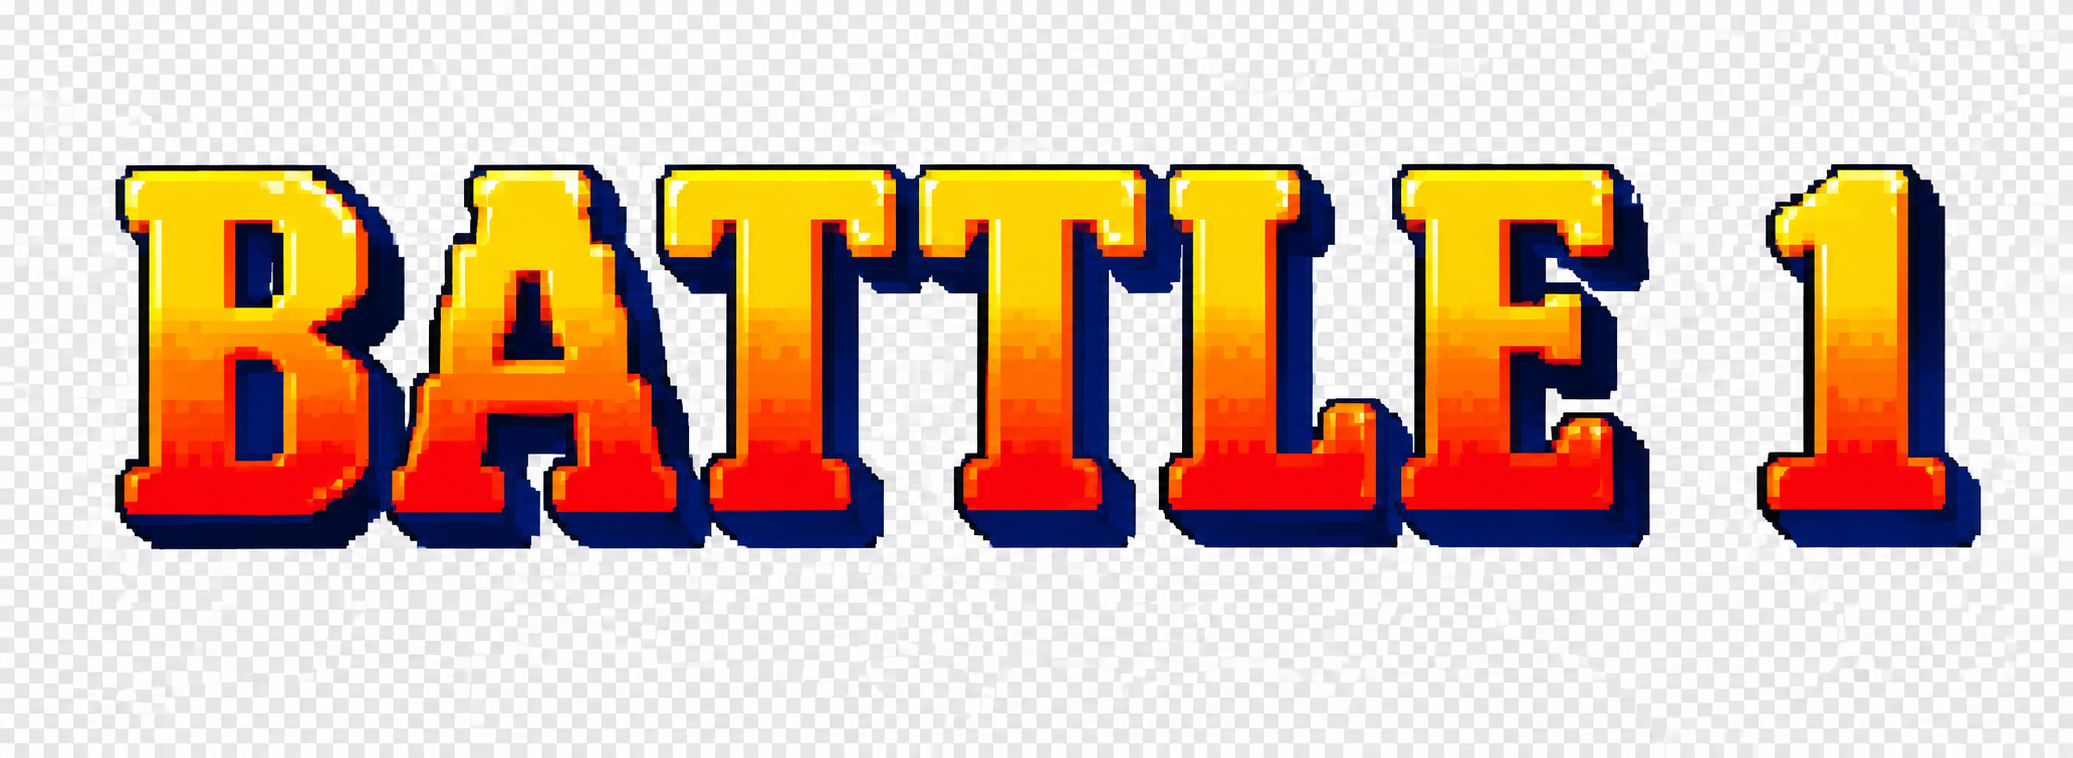
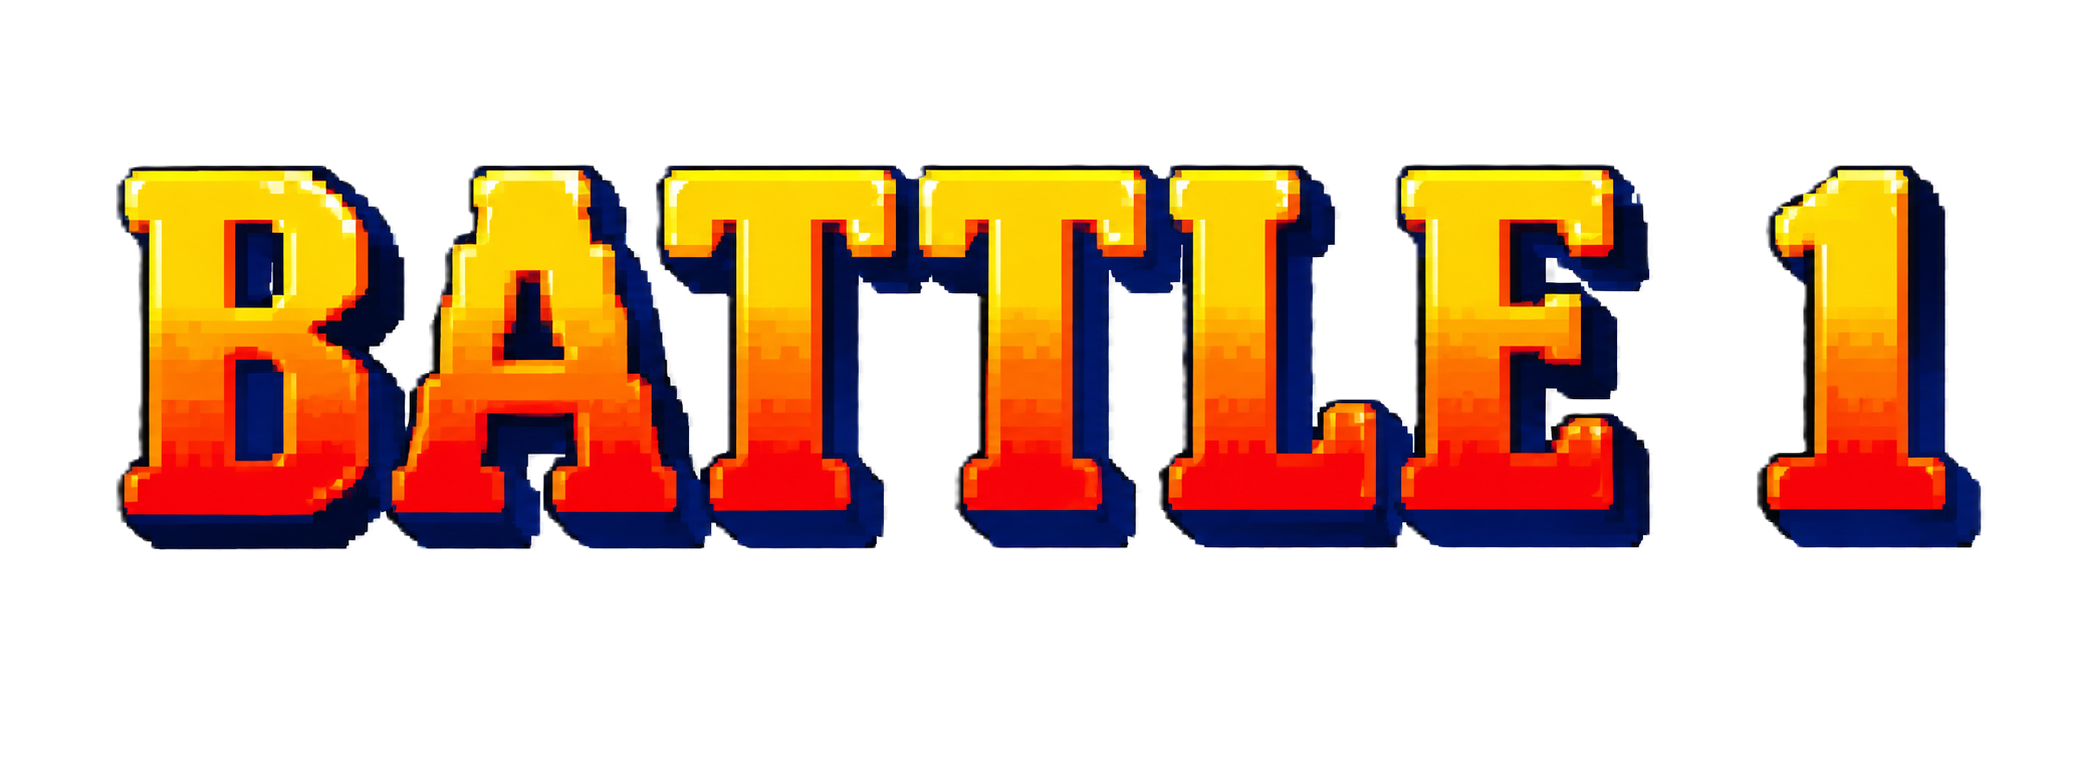
feat:add multiplayer mode to the game

diff --git a/script.js b/script.js
@@ -1,5 +1,5 @@
 import { drawUI, drawMainMenu, drawBackgroundSelect, drawCharacterSelect, drawInstructions, getMenuButtonBounds, getStageSelectCardBounds, getCharacterSelectCardBounds, CHARACTERS, getSelectedCharacterIndex, setSelectedCharacterIndex } from "./render/ui.js";
-import { drawBackground, STAGES, getCurrentStageIndex, setStageIndex, getFloorY } from "./render/stage.js";
+import { drawBackground, STAGES, getCurrentStageIndex, setStageIndex, getFloorY, drawRoundBanner } from "./render/stage.js";
 import { getCurrentScene, goTo, MENU_ITEMS, getSelectedIndex, setSelectedIndex, moveSelection } from "./render/menu.js";
 import { updateSFX, playRoundStart, playWin } from "./render/sfx.js";
 window.getCurrentScene = getCurrentScene;
@@ -190,7 +190,9 @@ class Fighter {
                 );
             }
             ctx.restore();
-            this.frameTimer++;
+            if (!window.roundStarting) {
+                this.frameTimer++;
+            }
             if (this.frameTimer > FRAME_DELAY) {
                 if (this.state.startsWith('punch') || this.state === 'kick' || this.state === 'special') {
                     if (this.frameIndex < frames.length - 1) {
@@ -295,6 +297,9 @@ window.player1 = character1;
 window.player2 = character2;
 let player1Wins = 0;
 let player2Wins = 0;
+window.currentRound = 1;
+window.roundEnding = false;
+window.roundStarting = false;
 let result = null;
 let testTimer = 99;
 let isMultiplayer = false;
@@ -400,27 +405,64 @@ function gameLoop() {
                 }
             }
         }
-        character1.update();
-        character2.update();
-        if (typeof checkBodyCollision === 'function') {
+        if (!window.roundEnding && !window.roundStarting) {
+            character1.update();
+            character2.update();
+        } else if (window.roundStarting) {
+            character1.draw();
+            character2.draw();
+        }
+
+        if (typeof checkBodyCollision === 'function' && !window.roundStarting) {
             checkBodyCollision(character1, character2, canvas.width);
         }
         for (let i = window.projectiles.length - 1; i >= 0; i--) {
             const projectile = window.projectiles[i];
-            projectile.update();
+            if (!window.roundStarting) projectile.update();
+            else projectile.draw();
             if (projectile.markedForDeletion) {
                 window.projectiles.splice(i, 1);
             }
         }
-        if (typeof checkHits === 'function') {
+        if (typeof checkHits === 'function' && !window.roundStarting) {
             checkHits(character1, character2);
         }
-        if (typeof determineWinner === 'function') {
+        if (typeof determineWinner === 'function' && !window.roundEnding && !window.roundStarting) {
             determineWinner(character1, character2);
+        }
+        
+        if (window.matchResult && !window.roundEnding) {
+            window.roundEnding = true;
+            
+            setTimeout(() => {
+                if (window.matchResult === 'Player 1 Wins') {
+                    player1Wins++;
+                } else if (window.matchResult === 'Player 2 Wins') {
+                    player2Wins++;
+                }
+                
+                if (player1Wins >= 2 || player2Wins >= 2) {
+                    // Match is over
+                    if (player1Wins >= 2) {
+                        result = "PLAYER 1 WINS THE MATCH";
+                    } else {
+                        result = "PLAYER 2 WINS THE MATCH";
+                    }
+                    goTo("results");
+                } else {
+                    // Advance to next round
+                    window.currentRound++;
+                    resetFight(false);
+                }
+            }, 2000);
         }
         updateSFX(character1, character2);
         let currentTimer = typeof timer !== 'undefined' ? timer : 99;
         drawUI(ctx, canvas, character1, character2, currentTimer, player1Wins, player2Wins, window.matchResult || result);
+
+        if (window.roundStarting) {
+            drawRoundBanner(ctx, canvas, window.currentRound);
+        }
     } else if (scene === "results") {
         drawResults();
     } else if (scene === "instructions") {
@@ -428,16 +470,22 @@ function gameLoop() {
     }
     requestAnimationFrame(gameLoop);
 }
-function resetFight() {
+function resetFight(hardReset = true) {
+    if (hardReset) {
+        player1Wins = 0;
+        player2Wins = 0;
+        window.currentRound = 1;
+    }
+    
     character1.health = 100;
     character2.health = 100;
     character1.x = 200;
-    character1.y = canvas.height - character1.height;
+    character1.y = getFloorY(canvas) - character1.height;
     character1.velocityY = 0;
     character1.isAttacking = false;
     character1.state = 'idle';
     character2.x = canvas.width - 250;
-    character2.y = canvas.height - character2.height;
+    character2.y = getFloorY(canvas) - character2.height;
     character2.velocityY = 0;
     character2.isAttacking = false;
     character2.state = 'idle';
@@ -445,7 +493,18 @@ function resetFight() {
     if (window.projectiles) window.projectiles.length = 0;
     result = null;
     window.matchResult = null;
-    if (typeof timer !== 'undefined') window.timer = 60; // Just in case
+    window.roundEnding = false;
+    window.roundStarting = true;
+    
+    setTimeout(() => {
+        window.roundStarting = false;
+        if (typeof decreaseTimer === 'function') decreaseTimer(character1, character2);
+    }, 1200);
+
+    if (typeof window.resetMatchTimer === 'function') {
+        window.resetMatchTimer();
+    }
+    
     playRoundStart();
     goTo("fight");
 }

diff --git a/render/ui.js b/render/ui.js
@@ -419,8 +419,6 @@ export function drawUI(ctx, canvas, character1, character2, timer, player1Wins, 
     }
     if (result) {
         ctx.save();
-        ctx.fillStyle = "rgba(0, 0, 0, 0.6)";
-        ctx.fillRect(0, canvas.height / 2 - 60, canvas.width, 120);
         ctx.fillStyle = "#FFDE00";
         ctx.shadowColor = "#FF3300";
         ctx.shadowBlur = 18;
@@ -450,9 +448,9 @@ export function drawInstructions(ctx, canvas) {
     ctx.fillText("HOW TO PLAY", canvas.width / 2, canvas.height * 0.1);
     ctx.restore();
 
-    const panelWidth = Math.min(340, canvas.width * 0.4);
+    const panelWidth = Math.min(300, canvas.width * 0.35);
     const panelHeight = Math.min(400, canvas.height * 0.65);
-    const gap = 40;
+    const gap = 90;
     const totalW = panelWidth * 2 + gap;
     const panelX1 = (canvas.width - totalW) / 2;
     const panelX2 = panelX1 + panelWidth + gap;
@@ -568,17 +566,19 @@ export function drawInstructions(ctx, canvas) {
 
     // Player 1 controls
     const p1Controls = [
-        { action: "MOVE", keys: ["W", "A", "S", "D"] },
+        { action: "MOVE LEFT/RIGHT", keys: ["A", "D"] },
         { action: "JUMP", keys: ["W"] },
-        { action: "ATTACK", keys: ["SPACE"] },
-        { action: "SPECIAL", keys: ["F"] }
+        { action: "PUNCH", keys: ["SPACE"] },
+        { action: "KICK", keys: ["SPACE x2"] },
+        { action: "SPECIAL", keys: ["E", "SHIFT"] }
     ];
 
-    // Player 2 controls
+    // Player 2 controls (Multiplayer)
     const p2Controls = [
-        { action: "MOVE", keys: ["↑", "←", "↓", "→"] },
+        { action: "MOVE LEFT/RIGHT", keys: ["←", "→"] },
         { action: "JUMP", keys: ["↑"] },
-        { action: "ATTACK", keys: ["ENTER"] },
+        { action: "PUNCH", keys: ["/"] },
+        { action: "KICK", keys: ["/ x2"] },
         { action: "SPECIAL", keys: ["SHIFT"] }
     ];
 

diff --git a/render/stage.js b/render/stage.js
@@ -4,12 +4,27 @@ export const STAGES = [
     { id: "bg3", name: "HONDA BATHHOUSE", src: "assets/bg3.jpeg", floorRatio: 0.90 },
     { id: "bg4", name: "TEMPLE DOJO", src: "assets/bg4.jpg", floorRatio: 0.95 }
 ];
+
+export const ROUND_BANNERS = {
+    1: "assets/battle1.png",
+    2: "assets/battle2.png",
+    3: "assets/battle3.png"
+};
+
 export const stageImages = {};
 STAGES.forEach(stage => {
     const img = new Image();
     img.src = stage.src;
     stageImages[stage.id] = img;
 });
+
+export const bannerImages = {};
+Object.keys(ROUND_BANNERS).forEach(round => {
+    const img = new Image();
+    img.src = ROUND_BANNERS[round];
+    bannerImages[round] = img;
+});
+
 let currentStageIndex = 0;
 export function setStageIndex(idx) {
     if (idx >= 0 && idx < STAGES.length) {
@@ -29,10 +44,23 @@ export function getFloorY(canvas) {
     const stage = STAGES[currentStageIndex];
     return canvas.height * (stage.floorRatio || 0.85);
 }
+
 export function drawBackground(ctx, canvas) {
     const stage = STAGES[currentStageIndex];
     const img = stageImages[stage.id];
     if (img && img.complete && img.naturalWidth > 0) {
         ctx.drawImage(img, 0, 0, canvas.width, canvas.height);
+    }
+}
+
+export function drawRoundBanner(ctx, canvas, roundNumber) {
+    const img = bannerImages[roundNumber];
+    if (img && img.complete && img.naturalWidth > 0) {
+        const scale = 0.35; // slightly smaller size
+        const w = img.naturalWidth * scale;
+        const h = img.naturalHeight * scale;
+        const x = (canvas.width - w) / 2;
+        const y = (canvas.height - h) / 2;
+        ctx.drawImage(img, x, y, w, h);
     }
 }

diff --git a/inputBuffer.js b/inputBuffer.js
@@ -49,13 +49,13 @@ window.addEventListener('keydown', (event) => {
         lastSlashPressTime = currentTime;
     }
 
-    // Player 1 Special (e)
-    if (event.key === 'e' && typeof window.player1 !== 'undefined' && window.getCurrentScene && window.getCurrentScene() === 'fight' && !window.matchResult) {
+    // Player 1 Special (e, or Shift in single-player)
+    if ((event.key === 'e' || (event.key === 'Shift' && !window.isMultiplayer)) && typeof window.player1 !== 'undefined' && window.getCurrentScene && window.getCurrentScene() === 'fight' && !window.matchResult) {
         window.player1.specialMove();
     }
     
-    // Player 2 Special (ArrowDown)
-    if (event.key === 'ArrowDown' && typeof window.player2 !== 'undefined' && window.getCurrentScene && window.getCurrentScene() === 'fight' && !window.matchResult && window.isMultiplayer) {
+    // Player 2 Special (Shift in multiplayer)
+    if (event.key === 'Shift' && typeof window.player2 !== 'undefined' && window.getCurrentScene && window.getCurrentScene() === 'fight' && !window.matchResult && window.isMultiplayer) {
         window.player2.specialMove();
     }
 });

diff --git a/matchLogic.js b/matchLogic.js
@@ -107,6 +107,7 @@ function decreaseTimer(p1, p2) {
     if (timer > 0) {
         timerId = setTimeout(() => decreaseTimer(p1, p2), 1000);
         timer--;
+        window.timer = timer; // Expose to UI
     }
     if (timer === 0) {
         if (p1.health === p2.health) {
@@ -130,3 +131,8 @@ function determineWinner(p1, p2) {
         }
     }
 }
+window.resetMatchTimer = function() {
+    clearTimeout(timerId);
+    timer = 60;
+    window.timer = timer;
+};

diff --git a/render/menu.js b/render/menu.js
@@ -2,7 +2,6 @@ let currentScene = "menu";
 export const MENU_ITEMS = [
     { id: "start", label: "START GAME" },
     { id: "multiplayer", label: "MULTI PLAYER" },
-    { id: "character-select", label: "CHARACTER SELECT" },
     { id: "background-select", label: "BACKGROUND SELECT" },
     { id: "instructions", label: "INSTRUCTIONS" }
 ];
